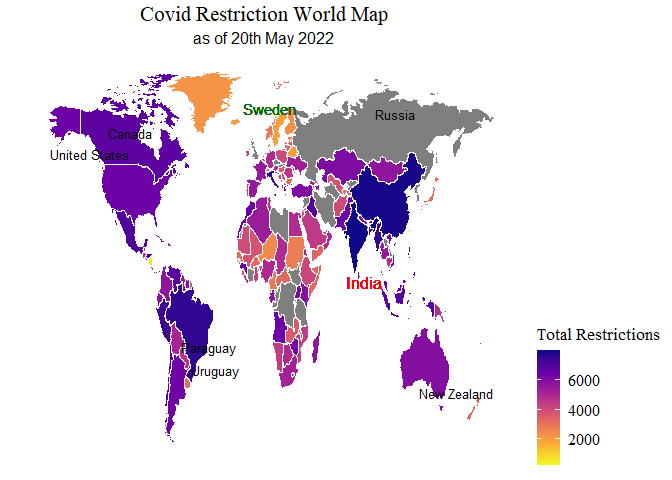
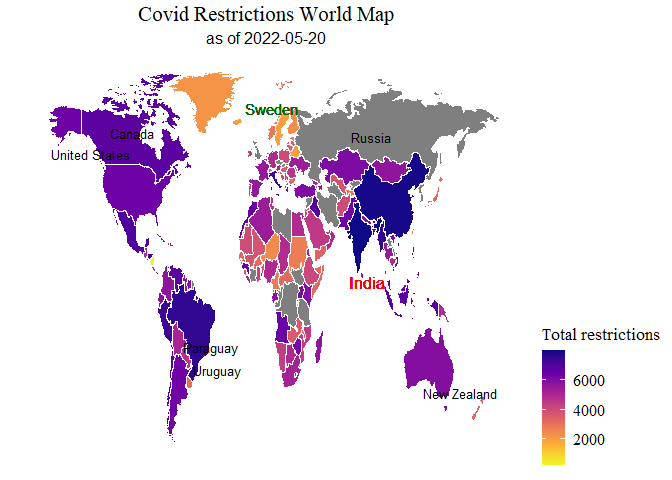
further update map and scatter plots

diff --git a/03_Plotting.md b/03_Plotting.md
@@ -46,9 +46,9 @@ world <- world %>% filter(location != "Antarctica" )
 ggplot(world, aes(x = long, y = lat, group = group)) +
   geom_polygon(aes(fill = total_restrictions), colour = 'white') +
   scale_fill_viridis_c(option = "C", direction = -1) +
-  labs(fill = "Total Restrictions") +
-  labs(title = "Covid Restriction World Map",
-            subtitle = "as of 20th May 2022")+
+  labs(fill = "Total restrictions") +
+  labs(title = "Covid Restrictions World Map",
+            subtitle = paste0("as of ", date_input))+
   geom_text(data = world_lab_data, x = 10, 
             y = 70, label = "Sweden",stat = "unique", size =4, colour = 'darkgreen') +
   geom_text(data = world_lab_data, x = 85, 
@@ -99,7 +99,7 @@ ggplot(aes(x = total_restrictions, y = total_deaths_per_million, label = locatio
         labs(color = "Continent") +
         ylab("Total deaths per million") +
         xlab("Total Restrictions") +
-        ggtitle(paste0("Total deaths per million vs Total Restrictions as of ", date_input)) +
+        ggtitle(paste0("Total deaths per million vs Total restrictions as of ", date_input)) +
         guides(color = guide_legend(override.aes = list(size = 7))) +
         theme_minimal()+
         theme(axis.title = element_text(size = 14, family="serif"),
